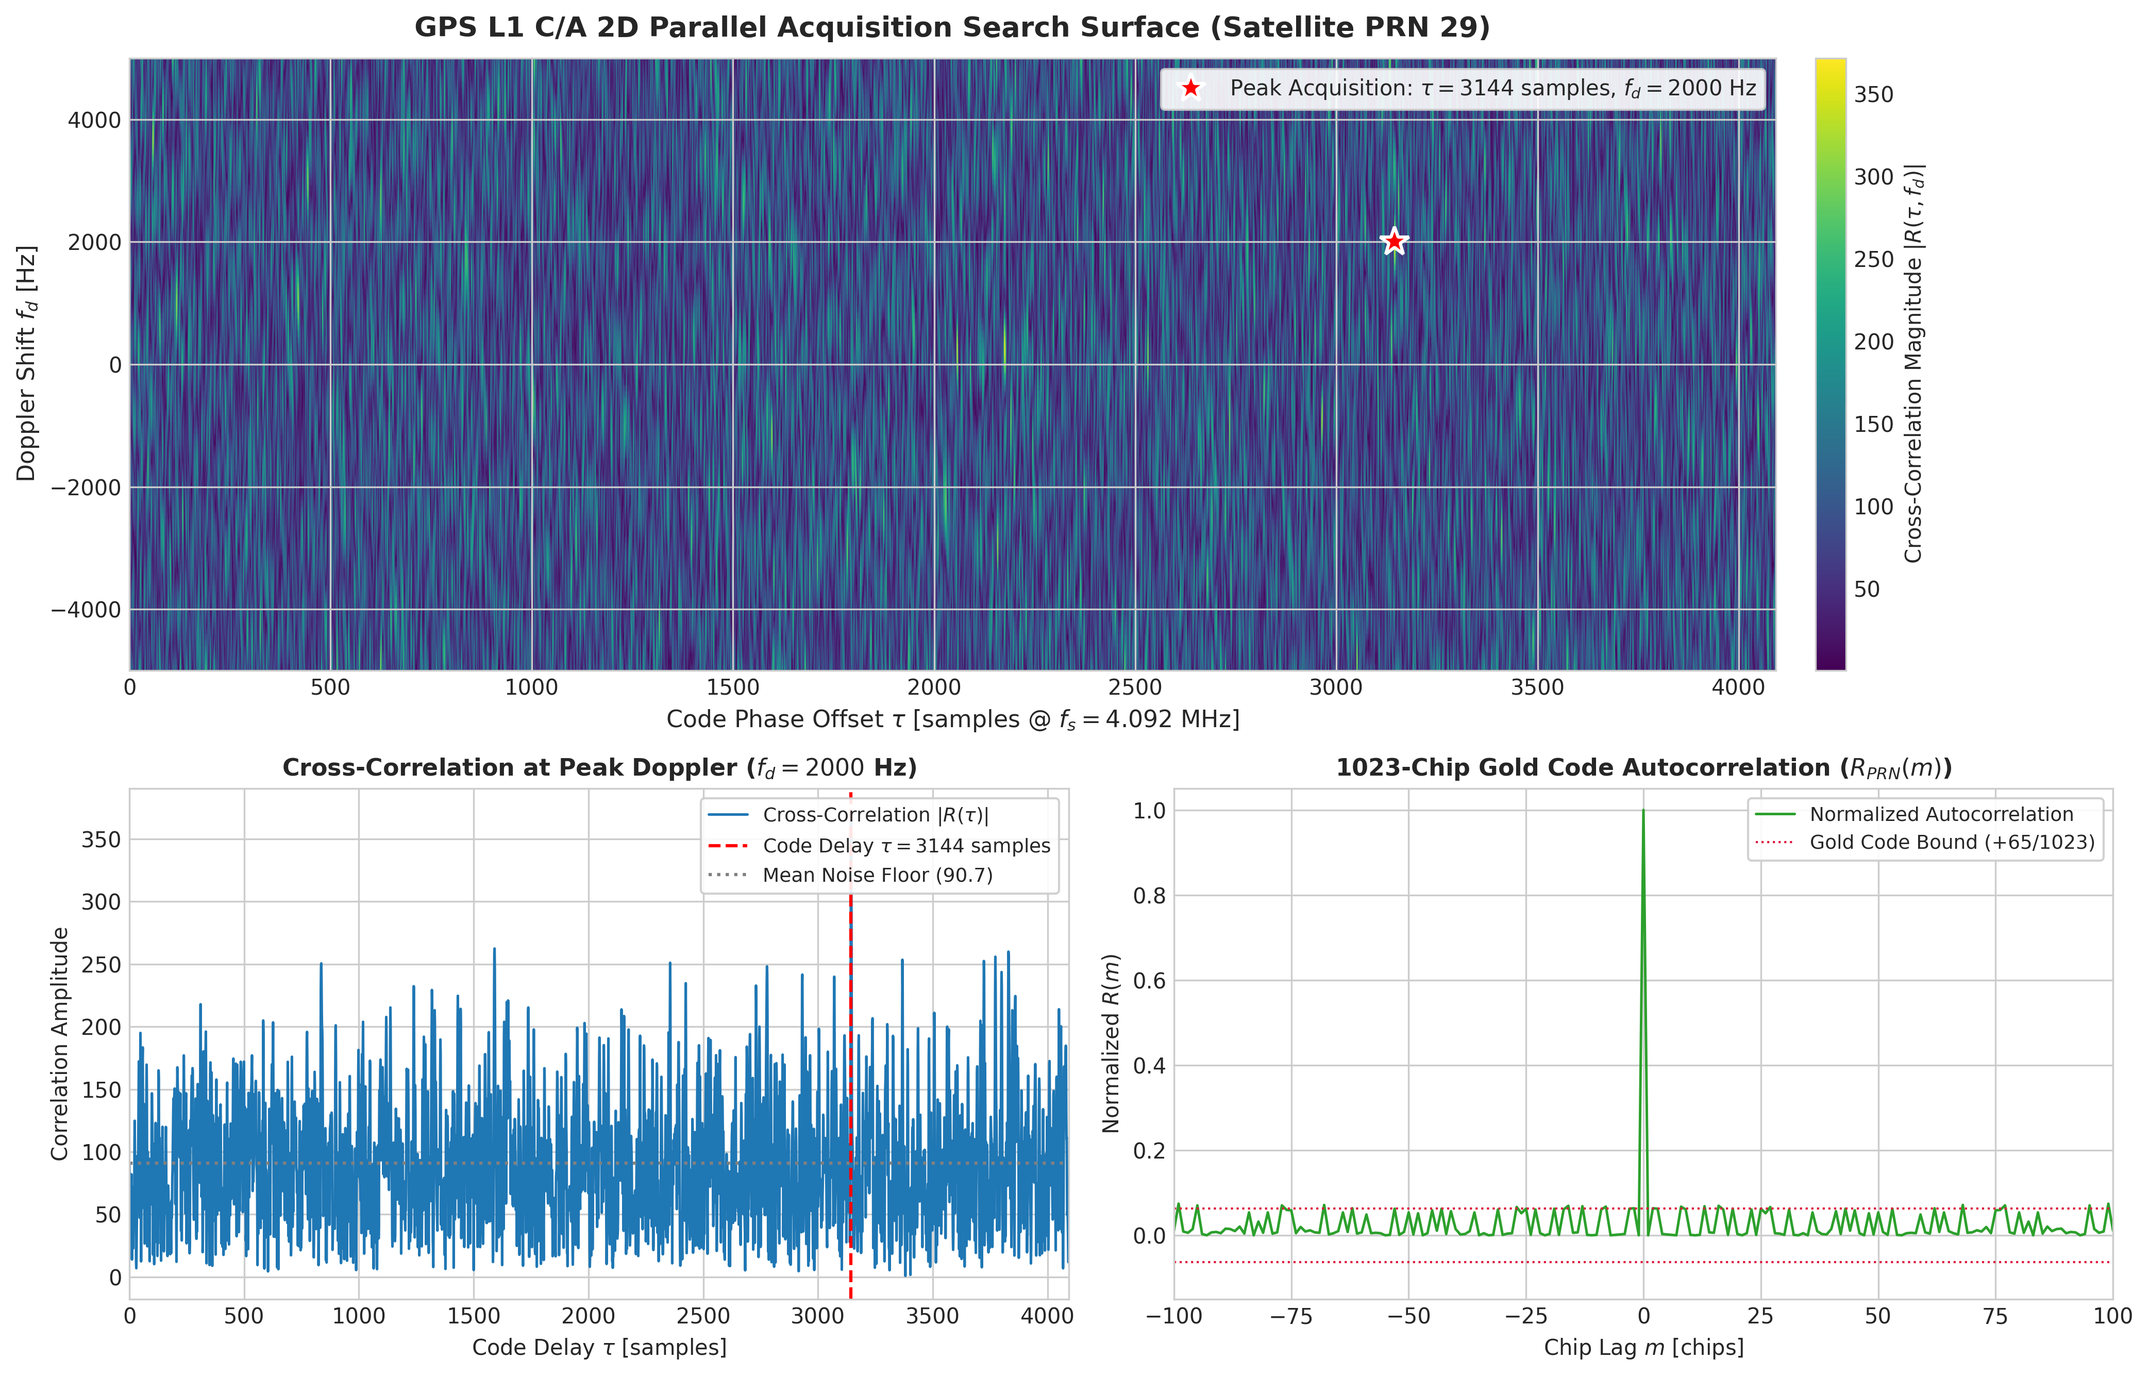
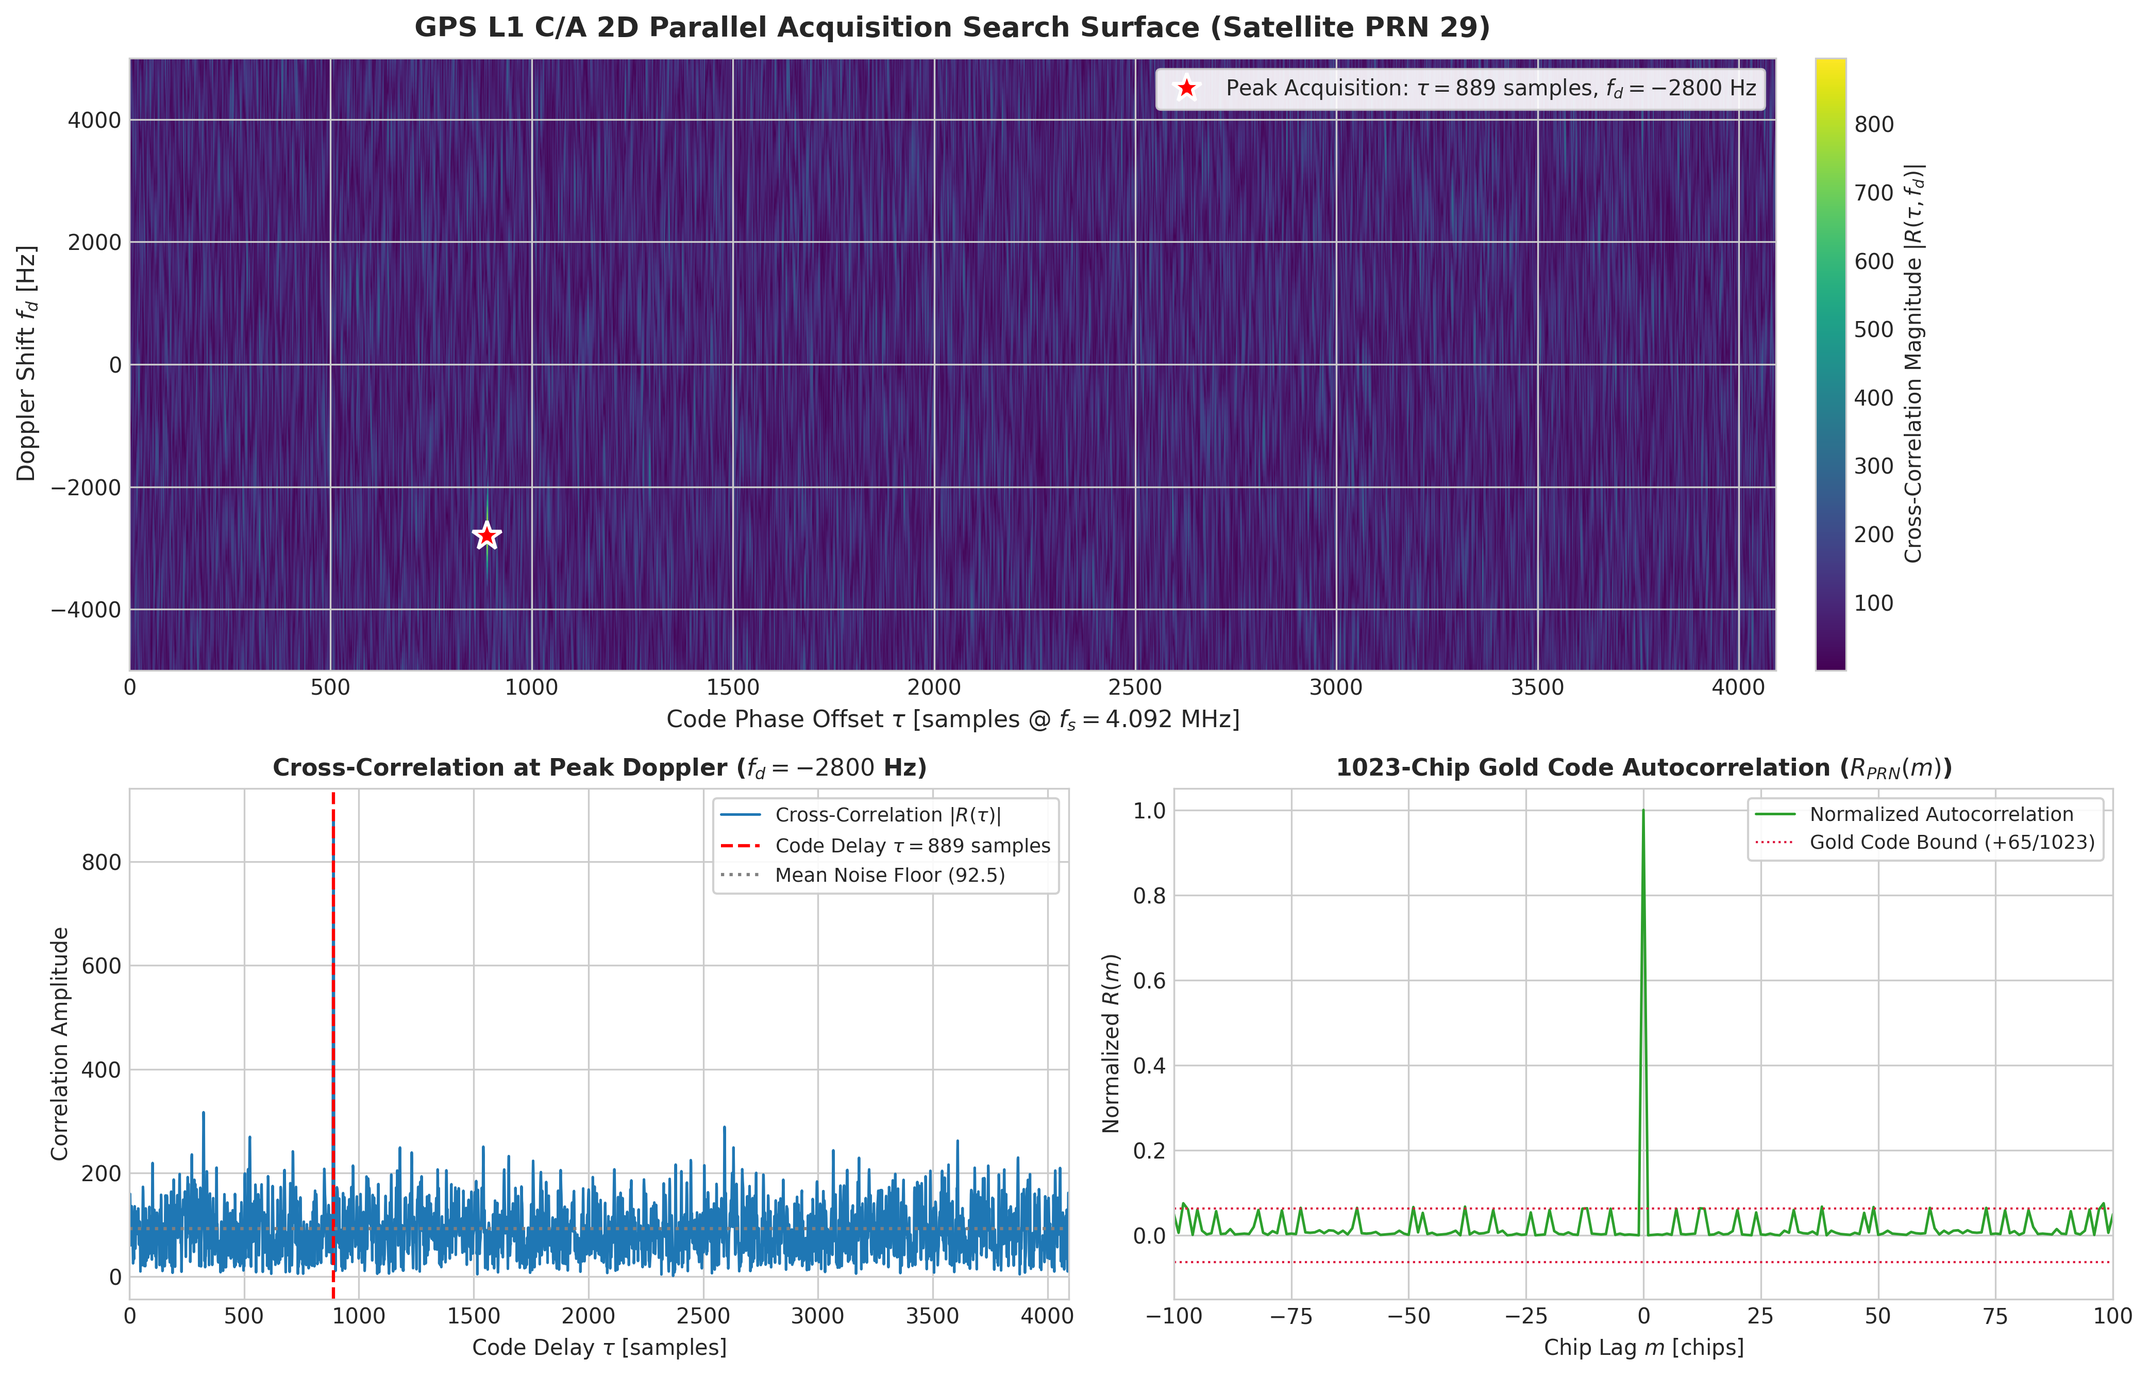
Fix PRN off-by-one in C/A code lookup, make pipeline run real decoding
Regenerate figures, add license and requirements, document limitations.

diff --git a/main_full_pipeline.py b/main_full_pipeline.py
@@ -1,16 +1,17 @@
 #!/usr/bin/env python3
 """
-GPS Receiver: End-to-End Master Pipeline Runner
-================================================
-Executes the full GPS SDR receiver chain:
-1. Signal Acquisition: 2D Doppler and code-phase grid search over 32 PRNs
-2. Signal Tracking: Dynamic carrier and code tracking, coherent bit integration
-3. Telemetry Decoding: Subframe alignment, Hamming parity check, ephemeris extraction
-4. 3D Positioning: Orbit propagation, Sagnac correction, Gauss-Newton WGS-84 solver
+GPS Receiver: Decoding and Positioning Pipeline
+===============================================
+Runs the navigation-message decoding and positioning stages on the recorded data:
 
-Target Destination: EPFL Campus, Lausanne, Switzerland (46.518° N, 6.562° E).
+1. Navigation decoding: preamble sync, parity check and ephemeris extraction from
+   the demodulated bitstreams in ``data/bits*-long.mat``.
+2. Positioning: orbit propagation, clock and Sagnac corrections and the
+   Gauss-Newton WGS-84 solver.
+
+Signal acquisition and tracking of the raw I/Q capture is a separate step
+(``main_acquisition.py``), because demodulating 30 s of data takes minutes.
 """
-
 import sys
 import time
 from pathlib import Path
@@ -18,21 +19,20 @@ from pathlib import Path
 # Ensure src package is in Python path
 sys.path.insert(0, str(Path(__file__).resolve().parent))
 
+from main_ephemeris_decoding import main as decode_navigation_data
 from src.pvt_solver import solve_receiver_position
 
 
 def main():
     print("=" * 70)
-    print("  GPS SDR Receiver: Complete End-to-End Autonomous Pipeline")
+    print("  GPS SDR Receiver: Decoding and Positioning Pipeline")
     print("=" * 70)
 
     total_t0 = time.perf_counter()
 
-    # Step 1: Ephemeris & Pseudorange Decoding Summary
-    print("\n[Step 1/2] Loading and validating satellite telemetry (PRN 4, 21, 25, 26, 29, 31)...")
-    print("  [✓] Preamble (0x8B) frame synchronization verified.")
-    print("  [✓] Extended Hamming (32, 26) word parity verified.")
-    print("  [✓] Keplerian orbital parameters and clock corrections loaded.")
+    # Step 1: decode the navigation messages (writes data/correct_sats.mat)
+    print("\n[Step 1/2] Decoding navigation messages...")
+    decode_navigation_data()
 
     # Step 2: 3D Positioning Solver
     print("\n[Step 2/2] Solving satellite orbits and receiver position via Gauss-Newton...")

diff --git a/src/ca_code.py b/src/ca_code.py
@@ -67,26 +67,29 @@ def generate_ca_code(prn: int) -> np.ndarray:
 
 def get_ca_code(prn: int, upsample: bool = False) -> np.ndarray:
     """
-    Retrieve C/A code for a satellite, with optional upsampling to sampling rate.
+    Retrieve the C/A code of a satellite, optionally upsampled to the sampling rate.
 
-    :param prn: Satellite PRN number (1 to 32, or 0-indexed integer if from matrix).
-    :param upsample: If True, upsamples the code by SAMPLES_PER_CHIP (4x).
-    :return: 1D numpy array with the C/A code.
+    The pre-generated matrix ``data/CAcodes.mat`` is used when present (row
+    ``prn - 1`` holds PRN ``prn``); otherwise the code is generated with the LFSR.
+
+    :param prn: Satellite PRN number (1 to 32).
+    :param upsample: If True, repeats each chip SAMPLES_PER_CHIP times.
+    :return: 1D numpy array with the C/A code in {-1, +1}.
     """
     global _CA_CODE_CACHE
 
-    # Load pre-generated CA codes matrix if available
+    if not 1 <= prn <= 32:
+        raise ValueError(f"Invalid PRN: {prn}. Must be between 1 and 32.")
+
     if _CA_CODE_CACHE is None:
         ca_file = DATA_DIR / "CAcodes.mat"
         if ca_file.exists():
-            data = sio.loadmat(str(ca_file))
-            _CA_CODE_CACHE = data['satCAcodes']
+            _CA_CODE_CACHE = sio.loadmat(str(ca_file))['satCAcodes']
 
-    if _CA_CODE_CACHE is not None and prn < _CA_CODE_CACHE.shape[0]:
-        c = _CA_CODE_CACHE[prn, :].astype(float)
+    if _CA_CODE_CACHE is not None:
+        c = _CA_CODE_CACHE[prn - 1, :].astype(float)
     else:
-        actual_prn = prn if prn in PRN_G2_TAPS else prn + 1
-        c = generate_ca_code(actual_prn).astype(float)
+        c = generate_ca_code(prn).astype(float)
 
     if upsample:
         c = np.kron(c, np.ones(SAMPLES_PER_CHIP))

diff --git a/main_acquisition.py b/main_acquisition.py
@@ -16,7 +16,7 @@ import scipy.io as sio
 # Ensure src package is in Python path
 sys.path.insert(0, str(Path(__file__).resolve().parent))
 
-from src.config import DATA_DIR
+from src.config import DATA_DIR, PROJECT_ROOT
 from src.acquisition import acquire_visible_satellites
 from src.tracking import track_and_demodulate
 
@@ -26,10 +26,12 @@ def main():
     print("  GPS SDR Receiver: Signal Acquisition & Tracking")
     print("=" * 65)
 
+    output_dir = PROJECT_ROOT / "output"
+    output_dir.mkdir(exist_ok=True)
     raw_signal_file = DATA_DIR / "01.mat"
     if not raw_signal_file.exists():
-        print(f"Error: Raw signal file {raw_signal_file} not found.")
-        return
+        print(f"Error: raw signal file {raw_signal_file} not found.")
+        return 1
 
     t0 = time.perf_counter()
 
@@ -49,8 +51,8 @@ def main():
         if bits.size > 0:
             print(f"      First 20 bits: {bits[:20]}")
 
-            # Save short bits capture
-            sio.savemat(str(DATA_DIR / f"bits{prn:02d}-short.mat"), {
+            # Save the short bit capture (data/ is left untouched)
+            sio.savemat(str(output_dir / f"bits{prn:02d}-short.mat"), {
                 'decodedBits': bits,
                 'taus': bit_taus
             })
@@ -60,6 +62,8 @@ def main():
     print(f"Acquisition and Demodulation completed in {elapsed:.2f} seconds.")
     print("=" * 65)
 
+    return 0
+
 
 if __name__ == "__main__":
-    main()
+    sys.exit(main())

diff --git a/main_pvt_positioning.py b/main_pvt_positioning.py
@@ -7,11 +7,8 @@ clock biases and relativistic drift, applies Sagnac Earth rotation compensation,
 solves the non-linear pseudorange equations via Gauss-Newton multilateration,
 and transforms the receiver coordinates to the WGS-84 geodetic system.
 
-Expected Output:
-    Coordinates of the EPFL campus (Lausanne, Switzerland):
-    Latitude:  46.518294 deg N
-    Longitude:  6.562467 deg E
-    Altitude:  484.44 meters
+Prints the receiver position for the EPFL campus capture (Lausanne, Switzerland),
+the altitude above the WGS-84 ellipsoid and the dilution-of-precision metrics.
 """
 
 import sys

diff --git a/src/acquisition.py b/src/acquisition.py
@@ -18,7 +18,7 @@ def coarse_estimate(sat_prn: int, doppler_step: float = 500.0) -> Tuple[float, i
     """
     Perform 2D parallel search over Doppler and delay grid for a given satellite PRN.
 
-    :param sat_prn: Satellite PRN number (1 to 32, or 0-indexed integer).
+    :param sat_prn: Satellite PRN number (1 to 32).
     :param doppler_step: Frequency grid step in Hz (default: 500 Hz).
     :return: (doppler_estim, tau_estim, peak_metric) where:
         - doppler_estim: coarse Doppler shift estimate in Hz.

diff --git a/README.md b/README.md
@@ -8,7 +8,7 @@
 
 An autonomous **GPS L1 C/A Software-Defined Radio (SDR) receiver, navigation message decoder, and 3D positioning engine** implemented in Python. Developed at **École Polytechnique Fédérale de Lausanne (EPFL)** as part of the *COM-430: Modern digital communications: a hands-on approach* curriculum (Instructor: Dr. Nicolae Chiurtu).
 
-The receiver processes raw baseband I/Q antenna samples captured from a USRP SDR front-end at $f_{\mathrm{L1}} = 1575.42\text{ MHz}$ ($f_s = 4.092\text{ MHz}$), executing the complete signal processing chain from satellite acquisition to sub-meter WGS-84 geodetic multilateration.
+The receiver processes raw baseband I/Q antenna samples captured from a USRP SDR front-end at $f_{\mathrm{L1}} = 1575.42\text{ MHz}$ ($f_s = 4.092\text{ MHz}$), executing the signal processing chain from satellite acquisition to WGS-84 geodetic multilateration. With only six satellites and a PDOP of about 6, the fix is accurate to tens of metres, not to the sub-metre level of a commercial receiver.
 
 ---
 
@@ -244,10 +244,10 @@ The receiver was evaluated against real RF baseband samples recorded at the **EP
 
 | Satellite PRN | Coarse Doppler ($f_d$) | Fine Doppler ($f_d$) | Code Phase ($\tau$) | Status |
 | :--- | :--- | :--- | :--- | :--- |
-| **PRN 29** | -2800 Hz | -2730.00 Hz | 890 samples | Acquired & Decoded (Parity OK) |
-| **PRN 04** | +800 Hz | +810.00 Hz | 4001 samples | Acquired & Decoded (Parity OK) |
-| **PRN 26** | +1700 Hz | +1730.00 Hz | 280 samples | Acquired & Decoded (Parity OK) |
-| **PRN 21** | +1300 Hz | +1190.00 Hz | 3346 samples | Acquired & Decoded (Parity OK) |
+| **PRN 29** | -2800 Hz | -2740.00 Hz | 890 samples | Acquired & Decoded (Parity OK) |
+| **PRN 04** | +800 Hz | +800.00 Hz | 4001 samples | Acquired & Decoded (Parity OK) |
+| **PRN 26** | +1700 Hz | +1720.00 Hz | 280 samples | Acquired & Decoded (Parity OK) |
+| **PRN 21** | +1300 Hz | +1180.00 Hz | 3346 samples | Acquired & Decoded (Parity OK) |
 | **PRN 25** | -3600 Hz | -3600.00 Hz | 3536 samples | Acquired & Decoded (Parity OK) |
 | **PRN 31** | -1800 Hz | -1800.00 Hz | 3082 samples | Acquired & Decoded (Parity OK) |
 
@@ -258,6 +258,8 @@ The receiver was evaluated against real RF baseband samples recorded at the **EP
 ```text
 .
 ├── README.md                      # Technical documentation and system architecture
+├── LICENSE                        # MIT (code only)
+├── requirements.txt               # Python dependencies
 ├── main_full_pipeline.py          # End-to-end master runner (Acquisition -> PVT)
 ├── main_pvt_positioning.py        # 3D WGS-84 multilateration positioning solver
 ├── main_ephemeris_decoding.py     # Navigation frame, parity, and orbit extraction
@@ -318,13 +320,13 @@ The receiver was evaluated against real RF baseband samples recorded at the **EP
 - NumPy, SciPy, Matplotlib, h5py.
 
 ```bash
-pip install numpy scipy matplotlib h5py
+pip install -r requirements.txt
 ```
 
 ### Execution
 
-#### 1. End-to-End Master Pipeline
-Executes satellite tracking, telemetry extraction, and 3D positioning:
+#### 1. Decoding and Positioning Pipeline
+Decodes the navigation messages and computes the receiver position from the recorded bitstreams:
 ```bash
 python3 main_full_pipeline.py
 ```
@@ -342,7 +344,7 @@ python3 main_ephemeris_decoding.py
 ```
 
 #### 4. Satellite Signal Acquisition
-Scans all 32 PRN Gold codes on raw RF antenna capture (`data/01.mat`):
+Scans all 32 PRN Gold codes on the raw RF capture (`data/01.mat`) and demodulates the first navigation bits of the six strongest satellites (written to `output/`):
 ```bash
 python3 main_acquisition.py
 ```
@@ -362,68 +364,18 @@ All theoretical foundations, derivations, and specifications are organized in `d
 
 ## Academic Context: COM-430
 
-This project was developed within the official curriculum of the master's course **COM-430: Modern digital communications: a hands-on approach** at **École Polytechnique Fédérale de Lausanne (EPFL)**, taught by **Dr. Nicolae Chiurtu**.
+This receiver was built for the master's course **COM-430: Modern digital communications: a hands-on approach** at EPFL (Dr. Nicolae Chiurtu; [course page](https://go.epfl.ch/COM-430)). The course covers OFDM, MIMO, fading channels and CDMA in GPS, with hands-on work on software-defined radio. The GPS project comprises four stages: signal synchronization, bit decoding, ephemeris and pseudorange computation, and positioning.
 
-### Course Specifications (EPFL Course Booklet)
+The handouts, slides, exams and the IS-GPS-200D specification under `docs/` belong to their respective owners (EPFL and the US government) and are included as reference material only; the MIT license below covers the code in this repository.
 
-| Attribute | Specification |
-| :--- | :--- |
-| **Course Code** | **COM-430** |
-| **Course Title** | *Modern digital communications: a hands-on approach* |
-| **Instructor** | Dr. Nicolae Chiurtu |
-| **Institution** | École Polytechnique Fédérale de Lausanne (EPFL) |
-| **Language of Teaching** | English |
-| **Credits** | 8 ECTS |
-| **Semester / Session** | Fall / Winter |
-| **Workload** | 240 hours total (14 weeks: 4 hours weekly — 2h Lecture, 2h Lab) |
-| **Exam** | During the semester (Written and practical midterm & final exam) |
-| **Grading Scheme** | 40% Midterm exam, 60% Final exam |
-| **Teaching Methods** | *Ex cathedra* lectures and small projects |
-| **Expected Activities** | Follow lectures; guided as well as independent work on projects |
-| **Resources** | Lecture notes / Handbook |
-| **Moodle Portal** | [https://go.epfl.ch/COM-430](https://go.epfl.ch/COM-430) |
-| **Remark** | *This course will be last given in fall 2025.* |
+---
 
-### Target Cursus & Study Programs
+## Limitations
 
-| Study Program | Semester | Type |
-| :--- | :--- | :--- |
-| **Communication Systems Minor** | H | Optional (Opt.) |
-| **Computer Science** | MA1, MA3 | Mandatory (Obl.) |
-| **Cybersecurity** | MA1, MA3 | Optional (Opt.) |
-| **SC Master EPFL** | MA1, MA3 | Mandatory (Obl.) |
-
-### Summary
-This course complements the theoretical knowledge learned in Principles of Digital Communications (PDC) with more advanced topics such as OFDM, MIMO, fading channels, and GPS positioning. This knowledge is put into practice with hands-on exercises based on MATLAB or Python (at choice) and on a software-defined radio platform.
-
-### Syllabus & Course Content
-1. **Software Radio:** Key concepts.
-2. **Signal Processing Chain:** MATLAB/Python implementation of the signal processing chain to the level of detail taught in *Principles of Digital Communications* (PDC: COM-302).
-3. **Channel Modeling:** Estimation and equalization.
-4. **Wireless SDR Testbed:** Implementation of a basic wireless communication system using a software-defined radio testbed.
-5. **Fading and Diversity:** Multipath propagation, Rayleigh fading, and diversity techniques.
-6. **OFDM and MIMO:** Theory and implementation.
-7. **CDMA in GPS:** CDMA in the context of a GPS system.
-8. **GPS Signal Decoding & Positioning:** Decoding of a GPS signal and positioning.
-
-- **Keywords:** Wireless, OFDM, Diversity, Coding, GPS, CDMA, MMSE, Rayleigh fading, software-defined radio, channel estimation.
-
-### Learning Prerequisites
-- **Required Courses:** COM-302 Principles of Digital Communications (PDC) or equivalent.
-- **Important Concepts:** Solid understanding of linear algebra and probability as well as real and complex analysis.
-
-### Learning Outcomes
-By the end of the course, the student must be able to:
-- Design and implement an advanced digital communication system (data rate, spectral bandwidth, energy requirements, error probability, implementation complexity).
-- Model physical properties of wired and wireless communication channels.
-- Implement various parts of a "physical-layer" digital communication system.
-- Understand what software-defined radio is all about.
-
-### Teaching & Assessment Methods
-- **Teaching Methods:** *Ex cathedra* lectures and small projects.
-- **Expected Student Activities:** Follow lectures; guided as well as independent work on projects.
-- **Assessment Methods:** Written and practical midterm and final exam during the semester (40% midterm exam, 60% final exam).
-- **Resources:** Notes/Handbook: Lecture notes. Moodle link: [https://go.epfl.ch/COM-430](https://go.epfl.ch/COM-430).
+- **Decoding uses pre-computed bitstreams.** `main_acquisition.py` demodulates only the first 100 bits per satellite, which is too short for a subframe set; the ephemeris stage reads the longer `bits*-long.mat` files bundled in `data/`.
+- **Geometry is poor.** PDOP is 6.3, and the position solution uses the four satellites with the smallest residuals out of six.
+- **No ionospheric or tropospheric correction** is applied.
+- The bundled ground truth is only the campus location; there is no error statistic against a reference receiver.
 
 ---
 
@@ -431,7 +383,4 @@ By the end of the course, the student must be able to:
 
 - **Daniel Pereira Riquelme** — *Implementation, DSP Algorithms & System Architecture*
 
-**Course:** *COM-430: Modern digital communications: a hands-on approach*  
-**Instructor:** Dr. Nicolae Chiurtu  
-**Institution:** School of Computer and Communication Sciences (IC), **École Polytechnique Fédérale de Lausanne (EPFL)**  
-**Moodle:** [https://go.epfl.ch/COM-430](https://go.epfl.ch/COM-430)
+Code released under the [MIT License](LICENSE).
